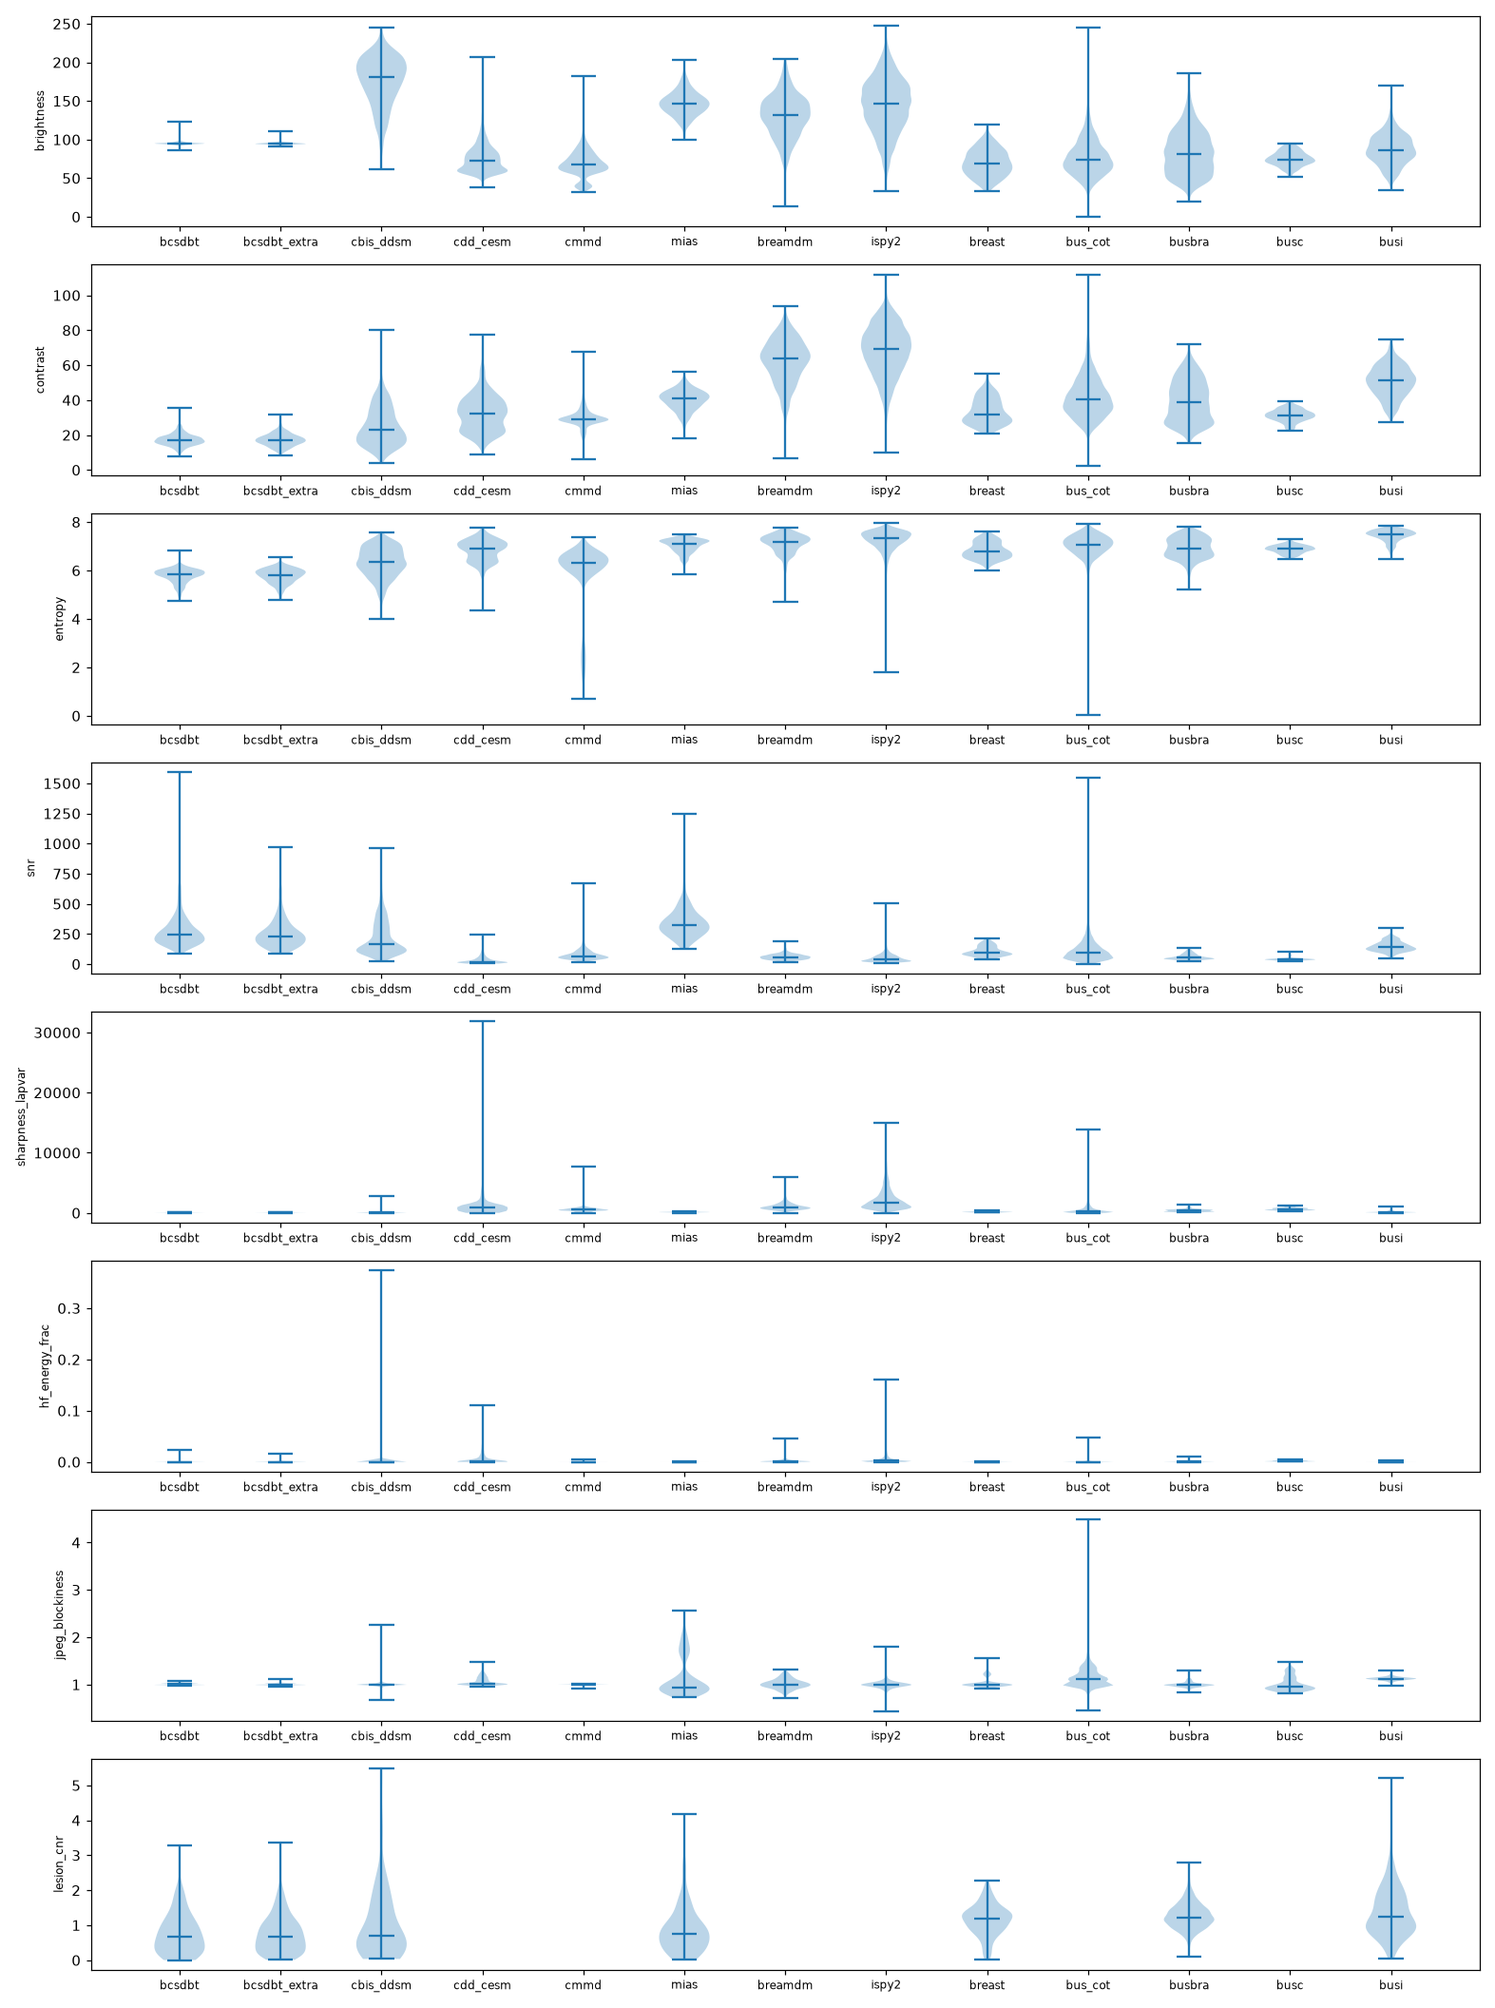
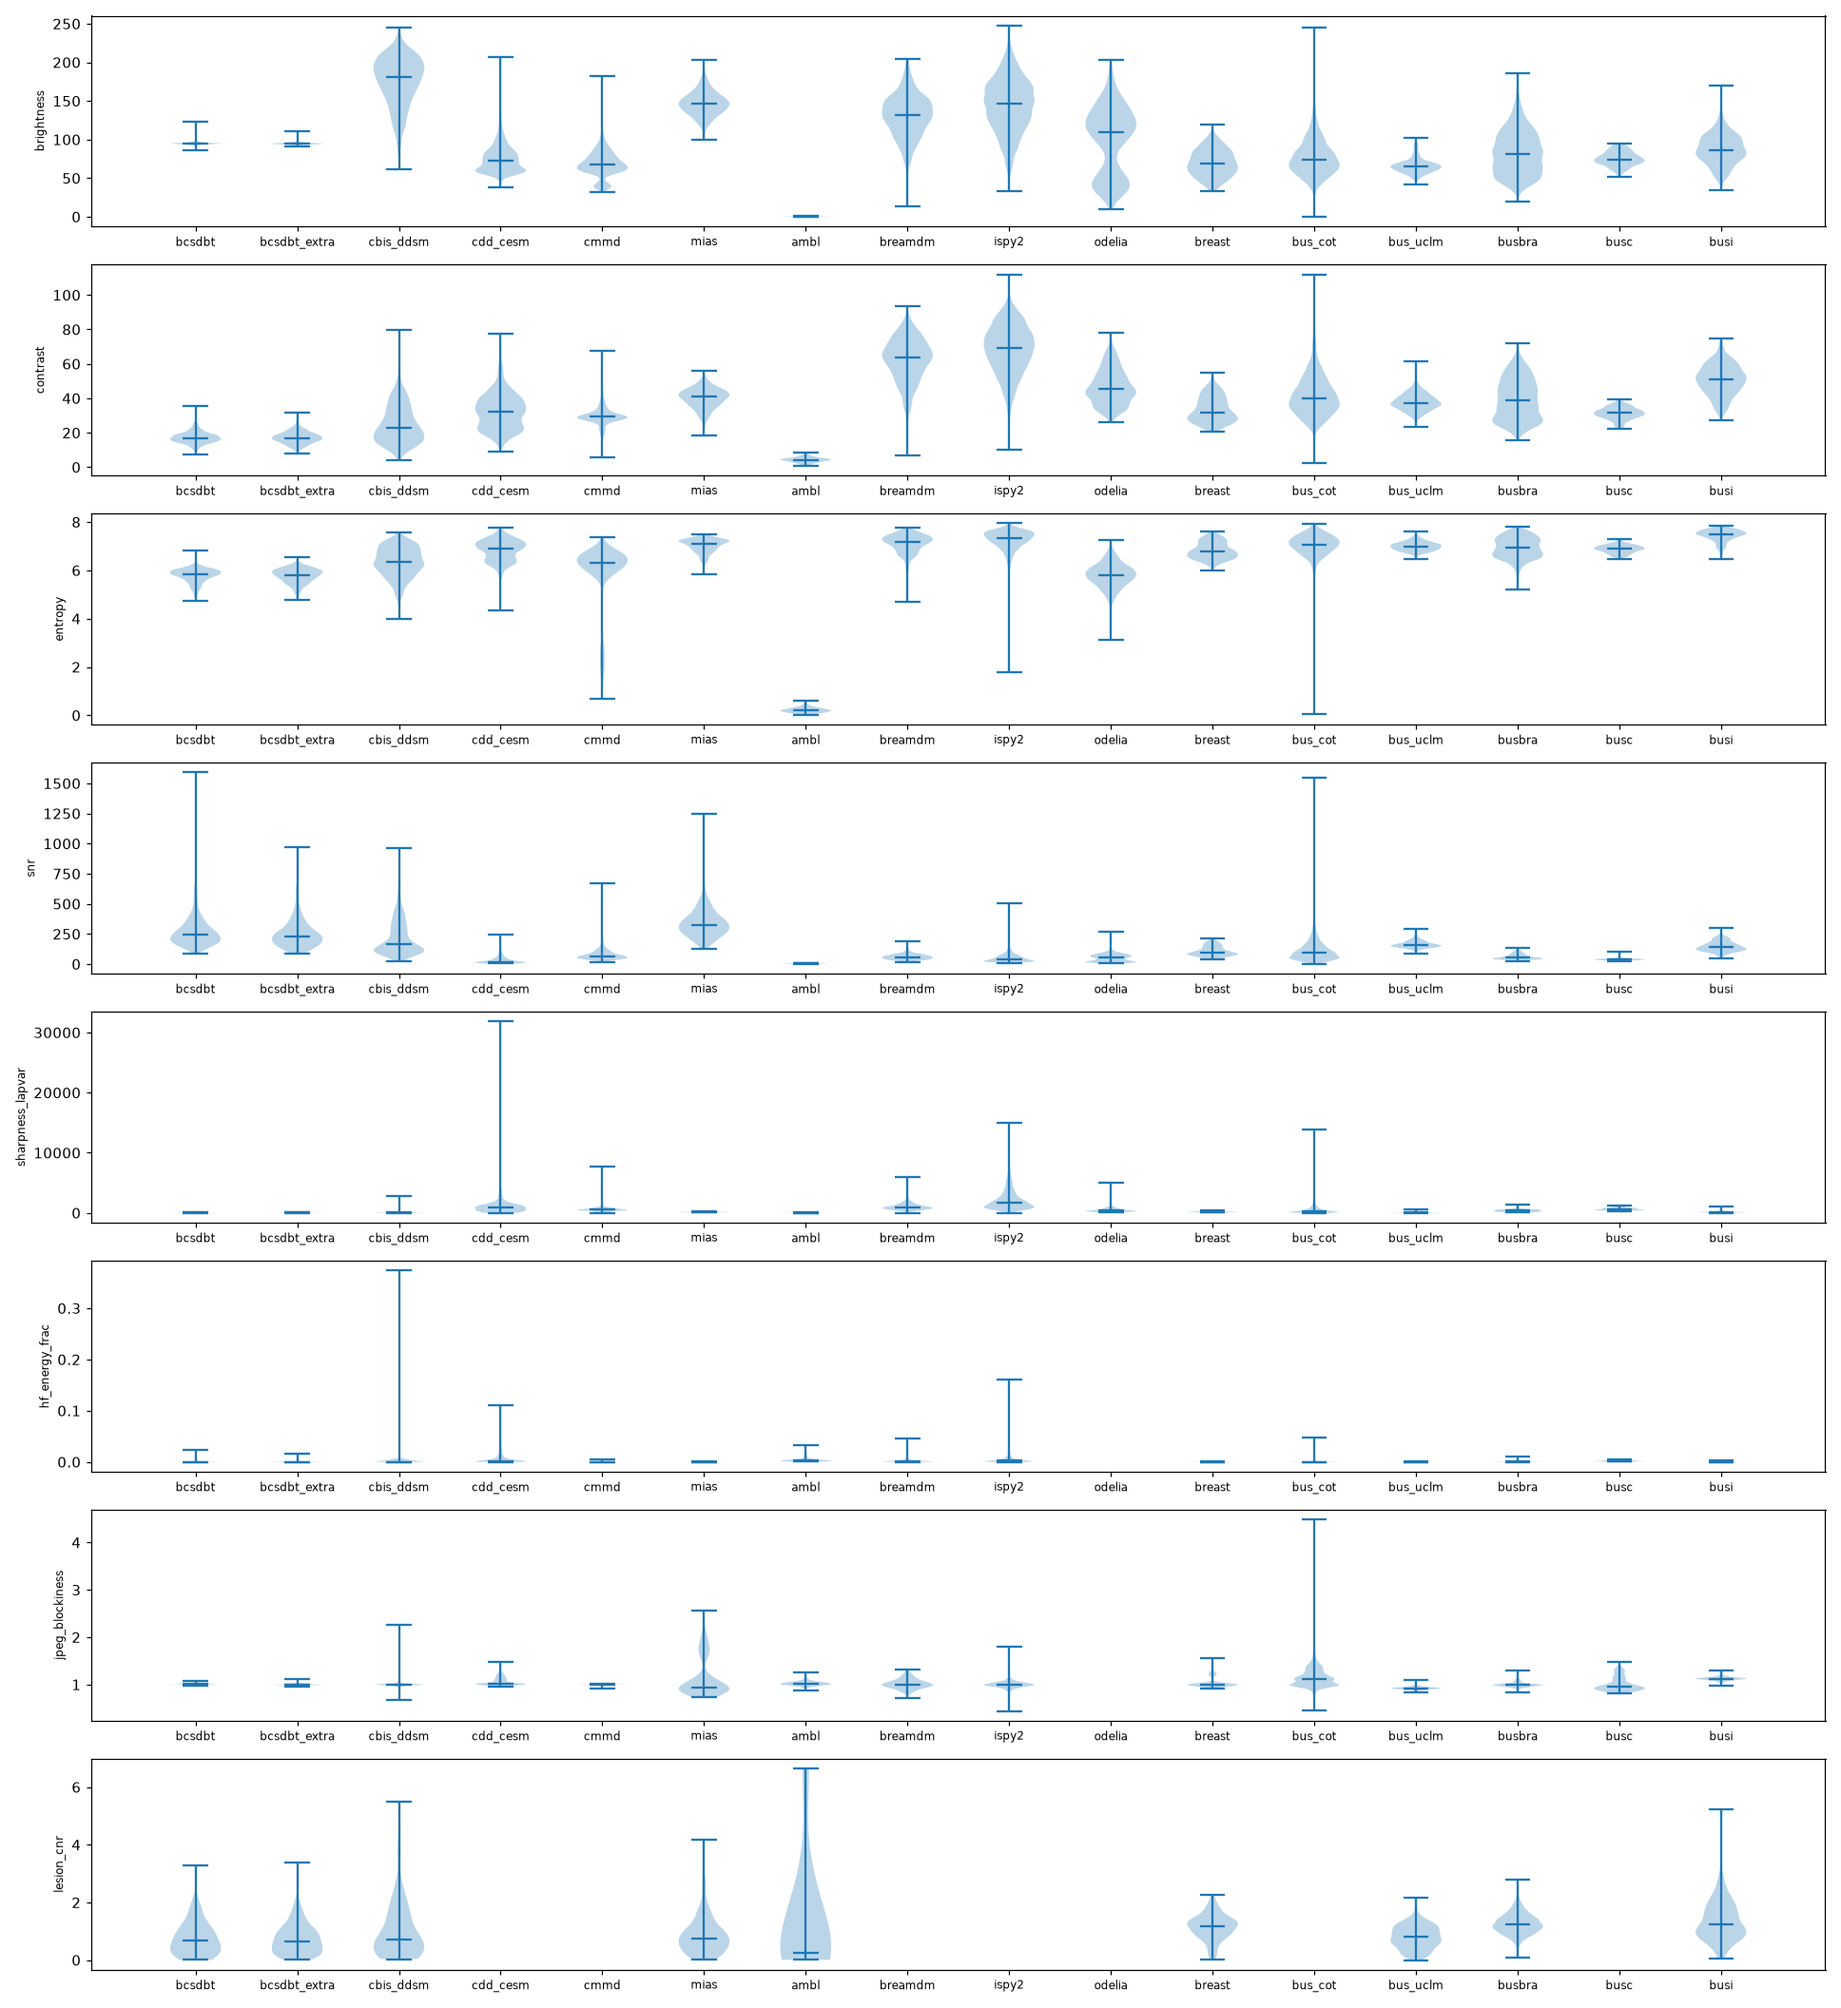
Audit DMID: laterality shortcut (AUC 0.61), no patient IDs, 3 duplicate pairs
- audit adapter for DMID (findings parser normalises the metadata typos;
  ROI masks via tifffile, corrupt mask tolerated) and RGB DICOM support in
  the audit loader
- cross-dataset check: BUS-UCLM shares no images with other ultrasound sets
- registry: DMID and BUS-UCLM label confirmation not stated

diff --git a/audit/sources.py b/audit/sources.py
@@ -36,6 +36,7 @@ DATASET_ROOTS = {
     'bus_cot': 'datasets/ultrasound/bus_cot/extracted/BUSCoT',
     'ambl': '/mnt/data/mmfm_datasets/MRI/ambl/dicom',
     'bus_uclm': '/mnt/data/mmfm_datasets/ultrasound/bus_uclm/BUS-UCLM',
+    'dmid': '/mnt/data/mmfm_datasets/mammography/dmid/extracted',
 }
 MODALITY = {
     'busbra': 'ultrasound', 'busi': 'ultrasound', 'busc': 'ultrasound', 'breast': 'ultrasound',
@@ -45,6 +46,7 @@ MODALITY = {
     'bus_cot': 'ultrasound',
     'ambl': 'mri',
     'bus_uclm': 'ultrasound',
+    'dmid': 'mammography',
 }
 CBIS_LABELS = Path('/mnt/data/mmfm_datasets/mammography/CBIS-DDSM-labels')
 ISPY2_RAW_ROOT = Path('/mnt/data/mmfm_datasets/MRI/PKG - BreastDCEDL_ISPY2/BreastDCEDL_ISPY2')
@@ -519,6 +521,72 @@ def bus_uclm(root):
     return samples
 
 
+DMID_ARCHIVES = Path('/mnt/data/mmfm_datasets/mammography/dmid/archives')
+
+
+def dmid_findings(path=DMID_ARCHIVES / 'Metadata.xlsx'):
+    """DMID Metadata.xlsx -> one row per finding (image, view, tissue, abnormality,
+    class B/M/N/NORM, x, y, radius), with the sheet's stray whitespace and
+    typos normalised."""
+    sheet = pd.read_excel(path, header=None)
+    rows = sheet[sheet[0].astype(str).str.strip().str.match(r'(?i)img\d+$')].iloc[:, :8]
+    rows.columns = ['image', 'view', 'tissue', 'abnormality', 'class', 'x', 'y', 'radius']
+    for column in ('image', 'view', 'tissue', 'abnormality', 'class'):
+        rows[column] = rows[column].astype(str).str.strip().str.upper().replace({'NAN': None})
+    rows['abnormality'] = (rows['abnormality'].str.replace(' ', '', regex=False)
+                           .str.replace('CLAC', 'CALC', regex=False))
+    rows.loc[rows['abnormality'] == 'NORM', 'class'] = 'NORM'
+    return rows.reset_index(drop=True)
+
+
+def dmid(root):
+    """DMID (Figshare v2): 510 full-field mammograms as 8-bit RGB DICOM (JPEG
+    lossless; needs pylibjpeg). No patient ID and one study per image, so every
+    image is its own group. Image label: malignant if any finding is M, benign
+    if any is B, else normal (NORM) or undefined (N only). Lesion box from the
+    ROI mask (LZW TIFF; needs imagecodecs) or, without one, the findings'
+    circles. Not wired into training: "used" = benign/malignant, no split."""
+    import tifffile
+
+    root = Path(root)
+    findings = dmid_findings()
+    samples = []
+    for image, group in findings.groupby('image'):
+        classes = set(group['class'].dropna())
+        label_name = ('malignant' if 'M' in classes else 'benign' if 'B' in classes
+                      else 'normal' if classes == {'NORM'} else 'undefined')
+        mask_path = root / 'ROI Masks' / f'{image}.tif'
+        box, mask_status = None, 'none'
+        if mask_path.exists():
+            try:
+                mask = tifffile.imread(mask_path)
+                mask_status = 'ok'
+            except Exception:   # some released masks are not valid TIFFs (all-zero header)
+                mask, mask_status = None, 'unreadable'
+        if mask_status == 'ok':
+            mask = mask[..., :3].max(axis=-1) > 0 if mask.ndim == 3 else mask > 0
+            if not mask.any():
+                mask_status = 'empty'
+            else:
+                rows, cols = np.where(mask)
+                box = (int(cols.min()), int(rows.min()), int(cols.max()) + 1, int(rows.max()) + 1)
+        circles = group.dropna(subset=['x', 'y', 'radius'])
+        if box is None and len(circles):
+            x, y, r = (circles[c].astype(float) for c in ('x', 'y', 'radius'))
+            box = (int((x - r).min()), int((y - r).min()), int((x + r).max()), int((y + r).max()))
+        samples.append(Sample(
+            sample_id=image, dataset='dmid', modality='mammography', label_name=label_name,
+            label={'benign': 0, 'malignant': 1}.get(label_name), used=label_name in ('benign', 'malignant'),
+            group=image, split=None, fold=None, native_kind='dicom',
+            native_path=str(root / 'DICOM Images' / f'{image}.dcm'), box=box,
+            extra={'view': group['view'].iloc[0], 'tissue': group['tissue'].iloc[0],
+                   'abnormalities': '|'.join(sorted(set(group['abnormality'].dropna()))),
+                   'n_findings': int((group['class'] != 'NORM').sum()), 'classes': ''.join(sorted(classes)),
+                   'roi_mask': mask_status},
+        ))
+    return samples
+
+
 ADAPTERS = {
     'busbra': busbra, 'busi': busi, 'busc': busc, 'breast': breast, 'mias': mias,
     'cdd_cesm': cdd_cesm, 'cmmd': cmmd, 'bcsdbt': bcsdbt, 'breamdm': breamdm, 'ispy2': ispy2,
@@ -526,6 +594,7 @@ ADAPTERS = {
     'odelia': None,  # parquet volumes: handled by audit/odelia.py, not per-file samples
     'bus_cot': bus_cot,
     'bus_uclm': bus_uclm,
+    'dmid': dmid,
     'ambl': lambda root: __import__('audit.ambl', fromlist=['samples']).samples(root),
 }
 

diff --git a/audit/sample.py b/audit/sample.py
@@ -82,10 +82,18 @@ def _load_dicom(path, frame=None):
         frame = frames // 2  # decode only the middle frame of a multi-frame volume
     array = pixel_array(path, index=frame) if frame is not None else pixel_array(path)
     bits = int(getattr(ds, 'BitsStored', 16) or 16)
-    array = apply_voi_lut(array, ds).astype(np.float32)
-    if getattr(ds, 'PhotometricInterpretation', '') == 'MONOCHROME1':
+    photometric = getattr(ds, 'PhotometricInterpretation', '')
+    rgb = None
+    if array.ndim == 3 and photometric in ('RGB', 'YBR_FULL', 'YBR_FULL_422'):
+        # colour DICOMs (e.g. DMID stores grey mammograms as 3 equal RGB channels)
+        rgb = array.astype(np.uint8) if bits <= 8 else None
+        array = array.astype(np.float32).mean(axis=-1)
+    else:
+        array = apply_voi_lut(array, ds)
+    array = np.asarray(array, dtype=np.float32)
+    if photometric == 'MONOCHROME1':
         array = array.max() - array
-    return Loaded(gray=array, rgb=None, bits=bits, header=dicom_header(ds))
+    return Loaded(gray=array, rgb=rgb, bits=bits, header=dicom_header(ds))
 
 
 def _load_npy(path):

diff --git a/docs/dataset_audit.md b/docs/dataset_audit.md
@@ -265,3 +265,55 @@ Findings:
 7. **How labels were confirmed is not stated** on the dataset page, so the
    labels are treated as "not stated" (like BUSI) until the source paper is
    checked.
+
+## DMID — Digital Mammography Dataset for Breast Cancer Diagnosis Research (audit run 2026-10-22)
+
+Figshare v2 (CC BY 4.0): 510 full-field mammograms from India, stored as
+8-bit RGB DICOM (three equal channels, JPEG Lossless; decoding needs
+`pylibjpeg` + `pylibjpeg-libjpeg`), about 6000×4750 px, with no vendor or
+pixel-spacing tags. `Metadata.xlsx` lists 647 findings (view, density, finding
+type, class, centre and radius in pixels); one radiology report with BI-RADS
+per image; ROI masks as LZW TIFF (`imagecodecs`). Adapter `dmid` in
+`audit/sources.py`; outputs in `analysis/dmid/`. No load errors.
+
+| Image label (malignant if any finding is M) | Images |
+|---|---|
+| Normal | 200 |
+| Benign | 146 |
+| Malignant | 130 |
+| Undefined (class "N" only) | 34 |
+
+Findings:
+
+1. **Side predicts malignancy.** 62% of malignant images are left breasts vs.
+   40% of benign (normals 57%): AUC 0.61 from laterality alone, chi-square
+   p = 0.0003. Breast orientation shows the side, so a CNN can learn it.
+   → Report a laterality-only baseline, and consider flipping all images to
+   one orientation.
+2. **No patient identifier.** Every image is its own DICOM study with no
+   PatientID, so a patient's CC and MLO views cannot be kept on one side of a
+   split. → Treat DMID results as image-level, with possible cross-view
+   leakage, and say so.
+3. **Three duplicate pairs** (SSIM ≥ 0.999): `IMG021`/`IMG319` and
+   `IMG034`/`IMG172` agree in label; `IMG019`/`IMG318` is labelled undefined
+   in one copy and benign in the other. → Keep one image per pair.
+4. **20 images hold both a benign and a malignant finding.** The image-level
+   label (malignant) hides the benign one. Per-finding labels and circles are
+   in the metadata if lesion-level crops are wanted.
+5. **Lesion size is a moderate cue** (box area AUC 0.70; malignant median
+   834×852 px vs. benign 547×530).
+6. **Masks cover nearly all lesions.** 268 of 276 benign/malignant images have
+   a usable ROI mask; 7 have none and 1 mask file has an all-zero TIFF header
+   and is unreadable (the audit falls back to the metadata circles). This explains
+   the "269 abnormal images" quoted elsewhere: that counts mask files.
+   The "Pixel-level annotation" set is the mammogram with lesion outlines
+   drawn on, not a mask.
+7. **Burnt-in film labels** on 68–82% of images, more on normals (82%) than on
+   lesions (68–71%). A possible shortcut for normal vs. abnormal, not for
+   benign vs. malignant.
+8. **Metadata typos and spacing.** View `CCLRT` (IMG060), abnormality `CLAC`,
+   and leading/trailing spaces in class codes. `dmid_findings()` normalises them.
+9. **Label confirmation is not stated.** The reports are radiology readings
+   with BI-RADS; the dataset paper (Oza et al. 2024, *Biomed. Eng. Lett.*)
+   could not be checked behind its paywall. → Treat as "not stated" until
+   confirmed.
